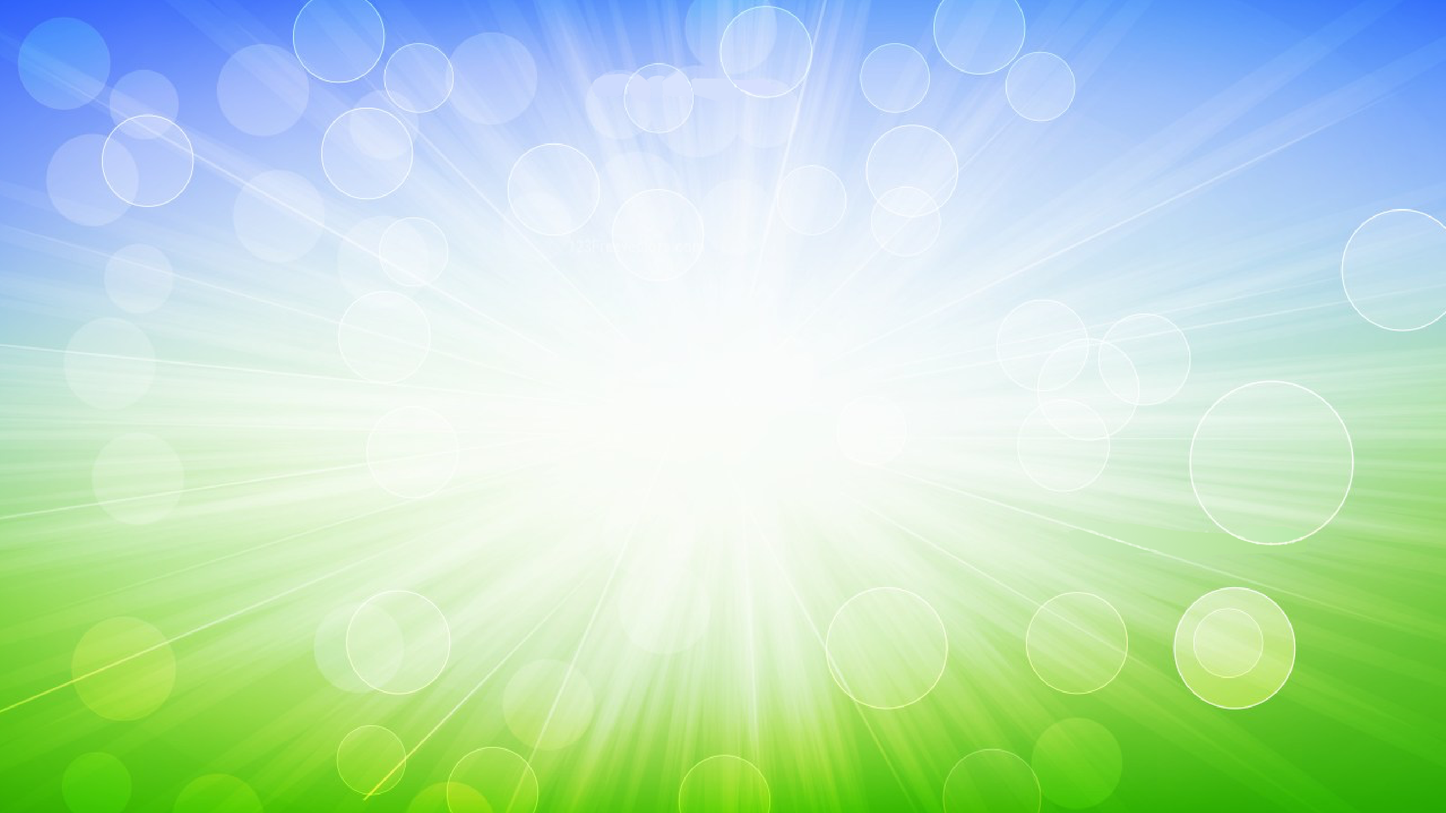
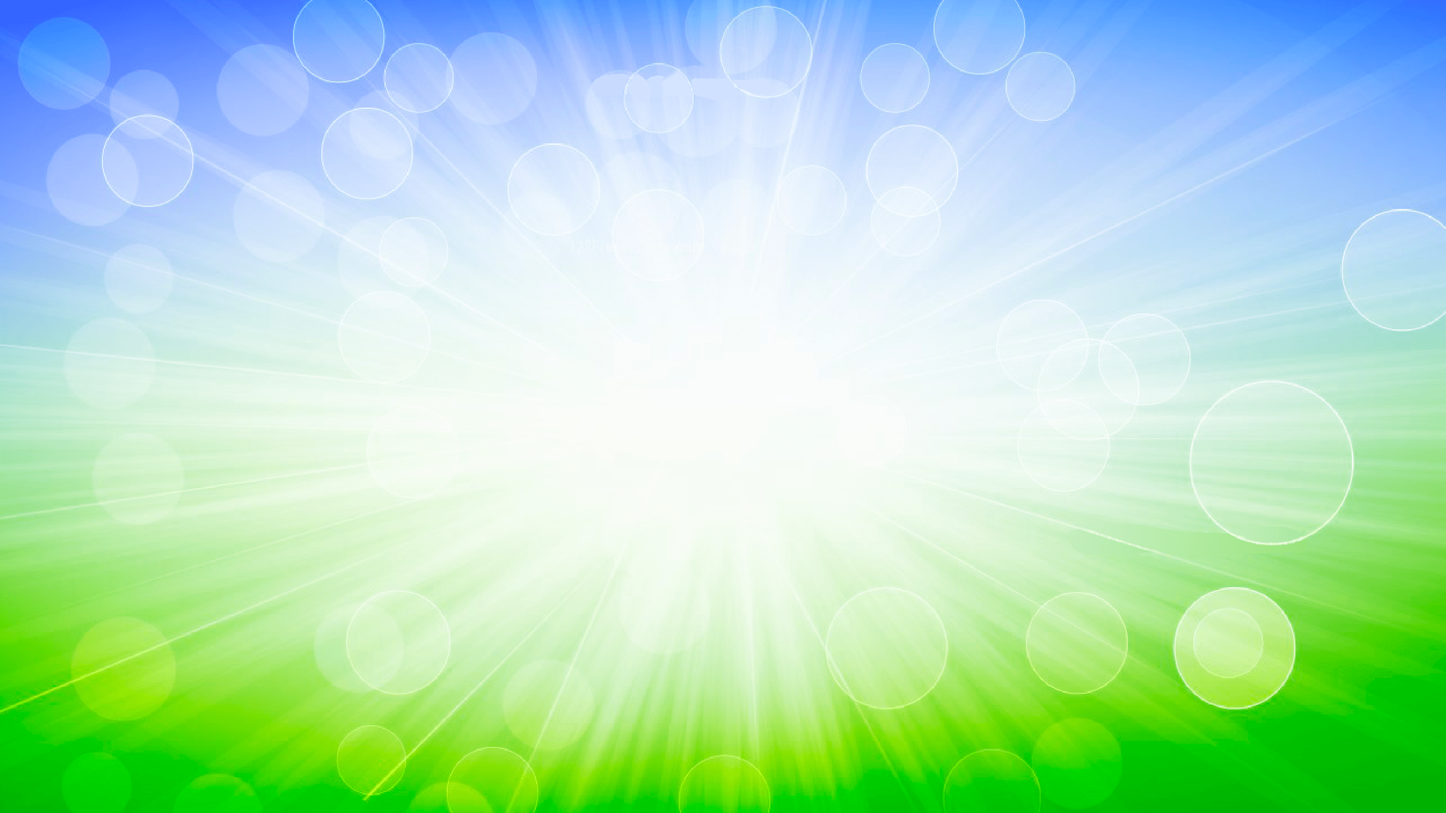
Asthetic Changes

Changed region(s): [[0.0, 0.5581, 1.0, 1.0], [0.8119, 0.7132, 0.8431, 0.7442]]

diff --git a/blog/templates/base.html b/blog/templates/base.html
@@ -18,7 +18,7 @@
     <div class="background" style="background-image: linear-gradient(rgba(0,0,0,0.05), rgba(0,0,0,0.05)), url({{url_for('static', filename='img/background_img/2.jpg')}});"></div>
     <div class="background" style="background-image: linear-gradient(rgba(0,0,0,0.05), rgba(0,0,0,0.05)), url({{url_for('static', filename='img/background_img/3.jpg')}});"></div>
     <div class="background" style="background-image: linear-gradient(rgba(0,0,0,0.05), rgba(0,0,0,0.05)), url({{url_for('static', filename='img/background_img/4.jpg')}});"></div>
-    <div class="background" style="background-image: linear-gradient(rgba(0,0,0,0.05), rgba(0,0,0,0.05)), url({{url_for('static', filename='img/background_img/5.png')}});"></div>
+    <div class="background" style="background-image: linear-gradient(rgba(0,0,0,0.05), rgba(0,0,0,0.05)), url({{url_for('static', filename='img/background_img/5.jpg')}});"></div>
     <div class="background" style="background-image: linear-gradient(rgba(0,0,0,0.05), rgba(0,0,0,0.05)), url({{url_for('static', filename='img/background_img/6.png')}});"></div>
     <nav class="navbar navbar-expand-lg navbar-dark bg-dark" style="position: fixed; top: 0; left: 0; width: 103vw; background-color: #151D33 !important; z-index: 9999;">
         <div class="container">

diff --git a/blog/templates/account.html b/blog/templates/account.html
@@ -7,7 +7,6 @@
             <img id="profile-img" src="{{url_for('static', filename='img/profile_image/' + current_user.profile_image)}}" align='center'>
         </button>
         <p class="label-text">{{current_user.email}}</p>
-        <br>
         <a href="{{url_for('user.change_background')}}">
             <input class="text-normal-media-small" type="submit" value="Change Background">
         </a>

diff --git a/blog/users/forms.py b/blog/users/forms.py
@@ -50,4 +50,4 @@ class Register(FlaskForm):
 
 class UpdateUserForm(FlaskForm):
     username = StringField('Username', validators=[DataRequired()])
-    submit = SubmitField('Save Changes')
+    submit = SubmitField('Update Username')
